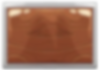
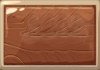
Added new buttons

diff --git a/Sudoku/GUI/src/main/resources/org/grupa5/gui/styles.css b/Sudoku/GUI/src/main/resources/org/grupa5/gui/styles.css
@@ -4,7 +4,7 @@
 .button {
     -fx-stroke: black;
     -fx-stroke-width: 3px;
-    -fx-text-fill: white;
+    -fx-text-fill: #dfd2d2;
 }
 
 .button:pressed, .toggle-button:selected {

diff --git a/Sudoku/DAO/src/main/java/org/grupa5/dao/JdbcSudokuBoardDao.java b/Sudoku/DAO/src/main/java/org/grupa5/dao/JdbcSudokuBoardDao.java
@@ -14,8 +14,8 @@ class JdbcSudokuBoardDao implements Dao<SudokuBoard> {
     private Statement statement;
 
     // TODO: 26.05.2020 Moze tworzmy w memory?
-     private static String DB_URL = "jdbc:derby://localhost:1527/dbname;create=true";
-//    private static String DB_URL = "jdbc:derby:memory:myDb;create=true";
+    private static String DB_URL = "jdbc:derby://localhost:1527/dbname;create=true";
+    //    private static String DB_URL = "jdbc:derby:memory:myDb;create=true";
     private static final String DB_USER = "user";
     private static final String DB_PASS = "1";
     private static final String DB_DRIVER = "org.apache.derby.jdbc.ClientDriver";

diff --git a/Sudoku/GUI/src/main/java/org/grupa5/gui/PrimaryController.java b/Sudoku/GUI/src/main/java/org/grupa5/gui/PrimaryController.java
@@ -90,6 +90,12 @@ public class PrimaryController implements Initializable {
     }
 
     private void updateLanguage() throws IOException {
+        BackgroundImage backgroundImage2 = new BackgroundImage(new Image(getClass().
+                getResource("Button_Small_Wood_Border_Smaller_Wcisniety.png").toExternalForm()), BackgroundRepeat.NO_REPEAT,
+                BackgroundRepeat.NO_REPEAT, BackgroundPosition.DEFAULT, BackgroundSize.DEFAULT);
+
+        Background background2 = new Background(backgroundImage2);
+        this.language.setBackground(background2);
         App reload = new App();
         reload.reload("primary");
     }
